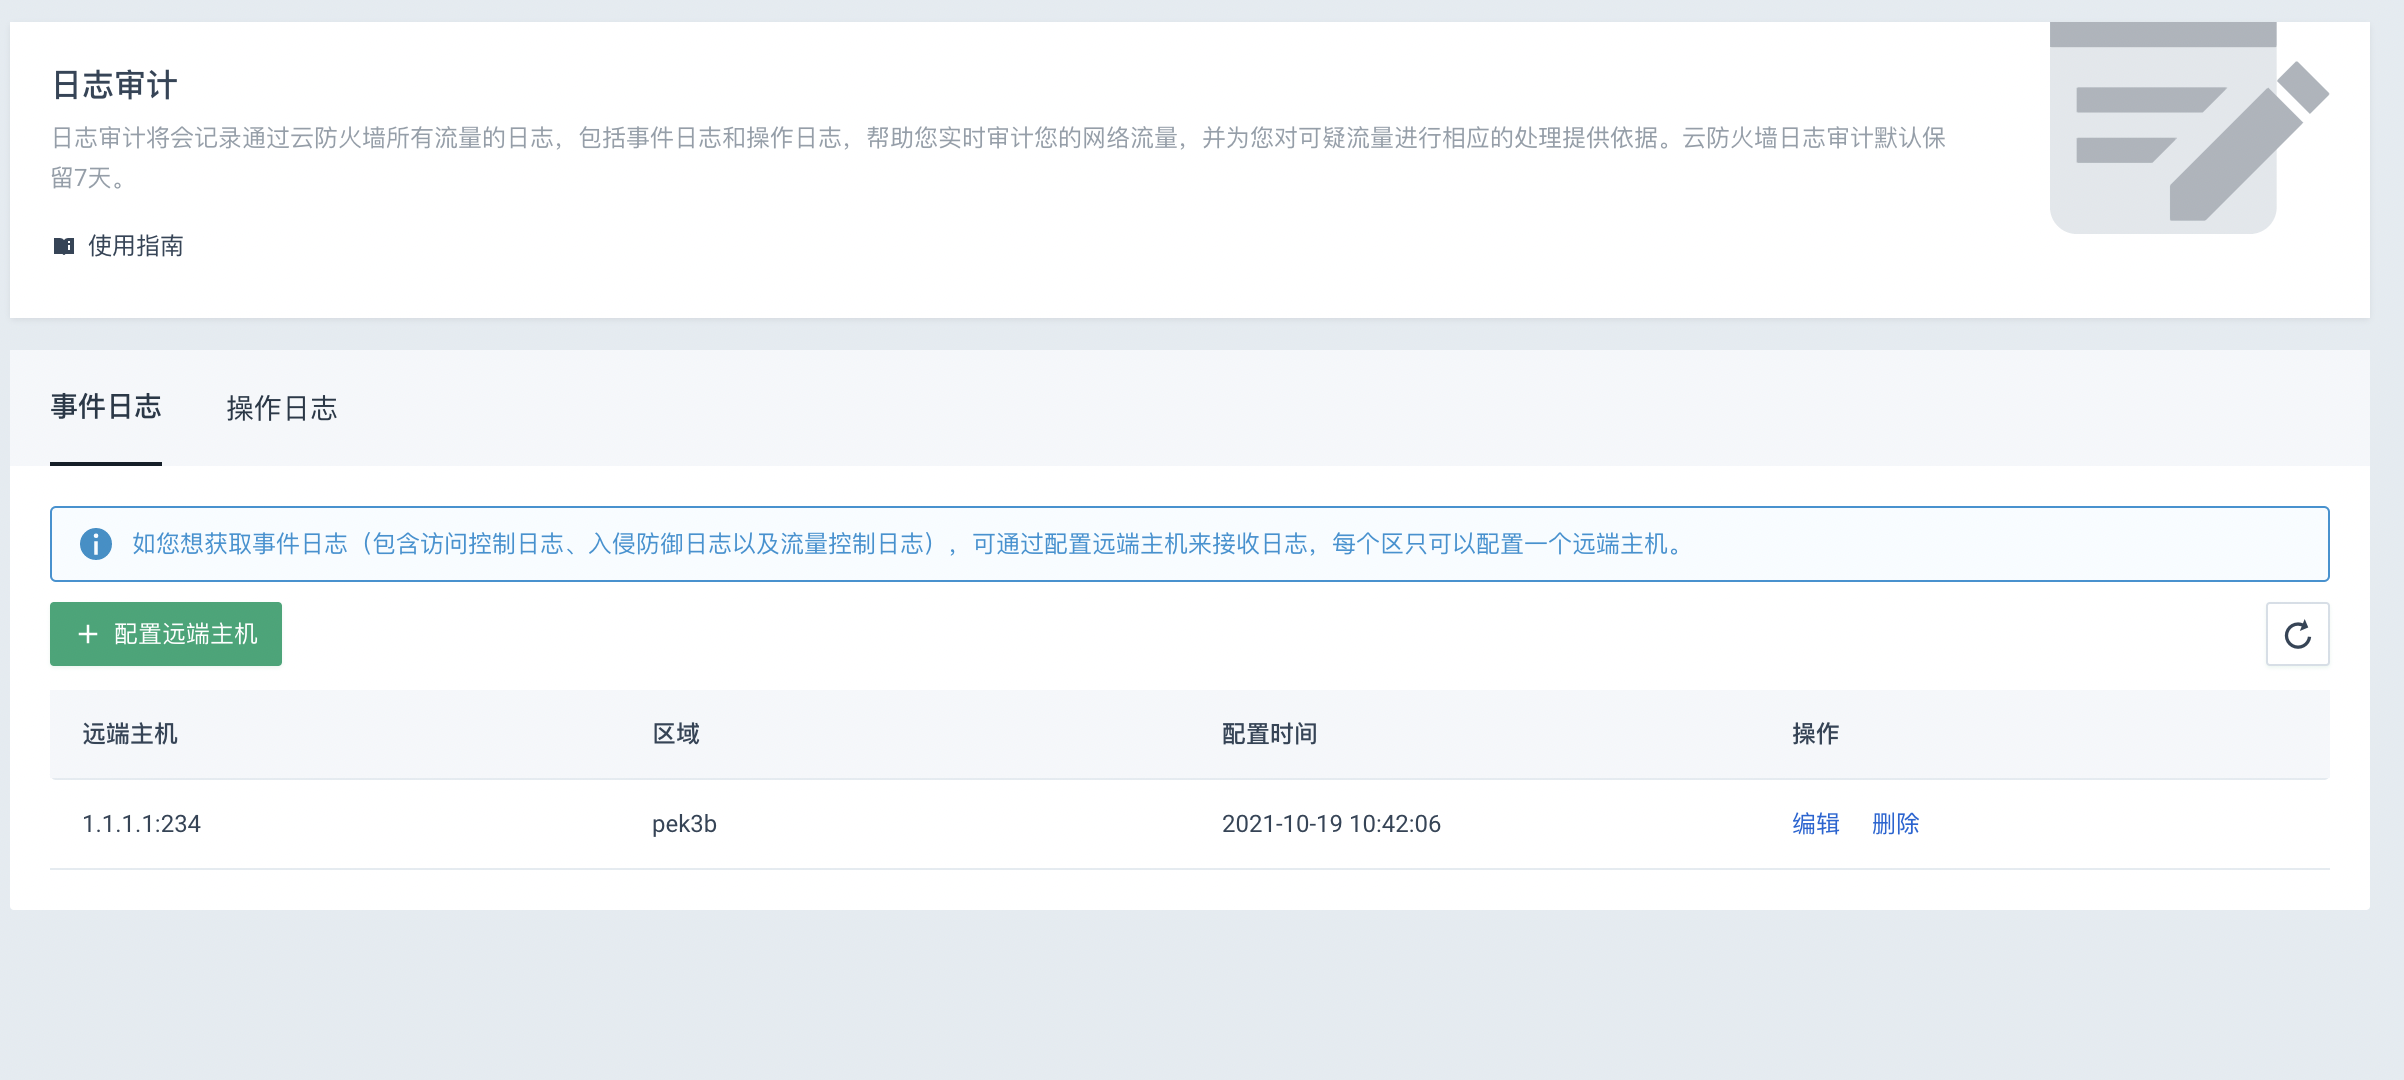
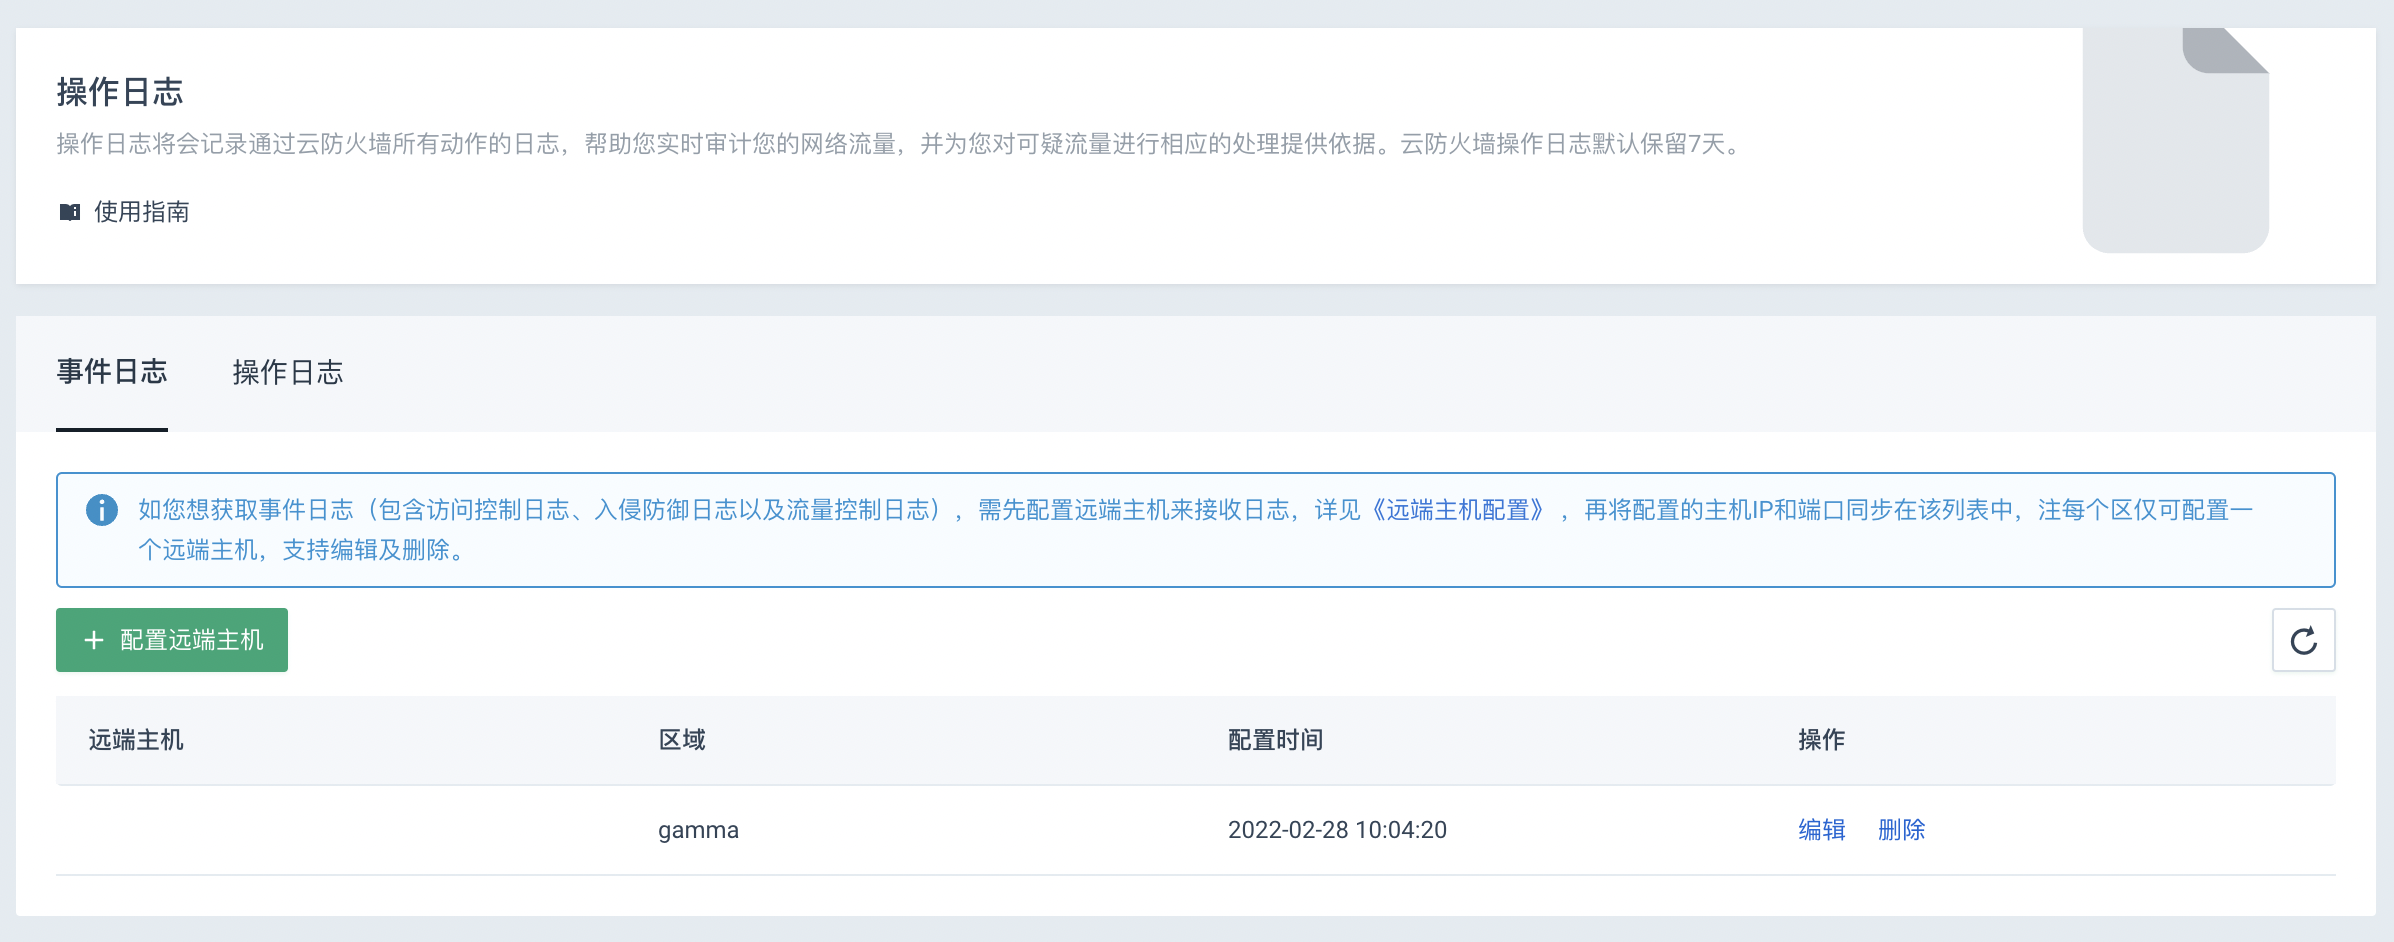
安全模块增加日志审计，迁移防火墙，KMS的API

diff --git a/content/security/firewall/manual/logs/logs_opertions.md b/content/security/firewall/manual/logs/logs_opertions.md
@@ -8,13 +8,7 @@ keyword: 云服务器, QingCloud，安全，操作日志
 
 ---
 
-操作日志将会记录通过云防火墙所有动作的日志，帮助您实时审计您的网络流量，并为您对可疑流量进行相应的处理提供依据。云防火墙操作日志默认保留7天。
-
-## 事件日志
-
-事件日志包括经过互联网防火墙的流量相关的事件日志。
-
-![](../../_images/log.png)
+操作日志将会记录关于云防火墙所有动作的日志、展示操作类型、操作行为以及具体操作信息。帮助您实时了解云防火墙实例情况，对可疑操作行为进行回溯取证。
 
 ### 操作步骤
 
@@ -22,23 +16,5 @@ keyword: 云服务器, QingCloud，安全，操作日志
 
 2. 在**云防火墙控制台**左侧导航栏，单击**日志审计** > **操作日志** 。
 
-3. 在**事件日志**页面，单击**配置远端主机**。
-
-   > **说明：**
-   > 如果您想获取事件日志（包含访问控制日志、入侵防御日志以及流量控制日志），需要先配置 syslog，详情配置步骤请参考[配置远端主机](/security/firewall/manual/rsyslog/)。
-   >
-   > 每个区只可以配置一个远端主机。
-
-4. 在**配置远端主机**对话框中，填写 syslog 配置中的远端主机信息。
-
-   ![](../../_images/set_vm.png)
-
-5. 单击**新增**完成远端主机配置。
-
-## 操作日志
-
-**操作日志**记录云防火墙中的所有操作执行的时间、操作类型、操作行为以及具体操作信息。
-
-<img src="../../_images/manual_log.png" style="zoom:60%;" />
-
 您可在**操作日志**列表中输入**操作行为**、选择**操作状态**或选择**操作时间**来筛选对应的操作记录。
+

diff --git a/content/security/firewall/manual/rsyslog.md b/content/security/firewall/manual/rsyslog.md
@@ -3,7 +3,7 @@ title: "配置远端主机"
 linkTitle: "rsyslog 远端配置"
 date: 2020-02-28T10:08:56+09:00
 description: 如何配置远端主机
-draft: false
+draft: true
 weight: 9
 keyword: 云服务器, QingCloud，安全，远端主机
 ---
